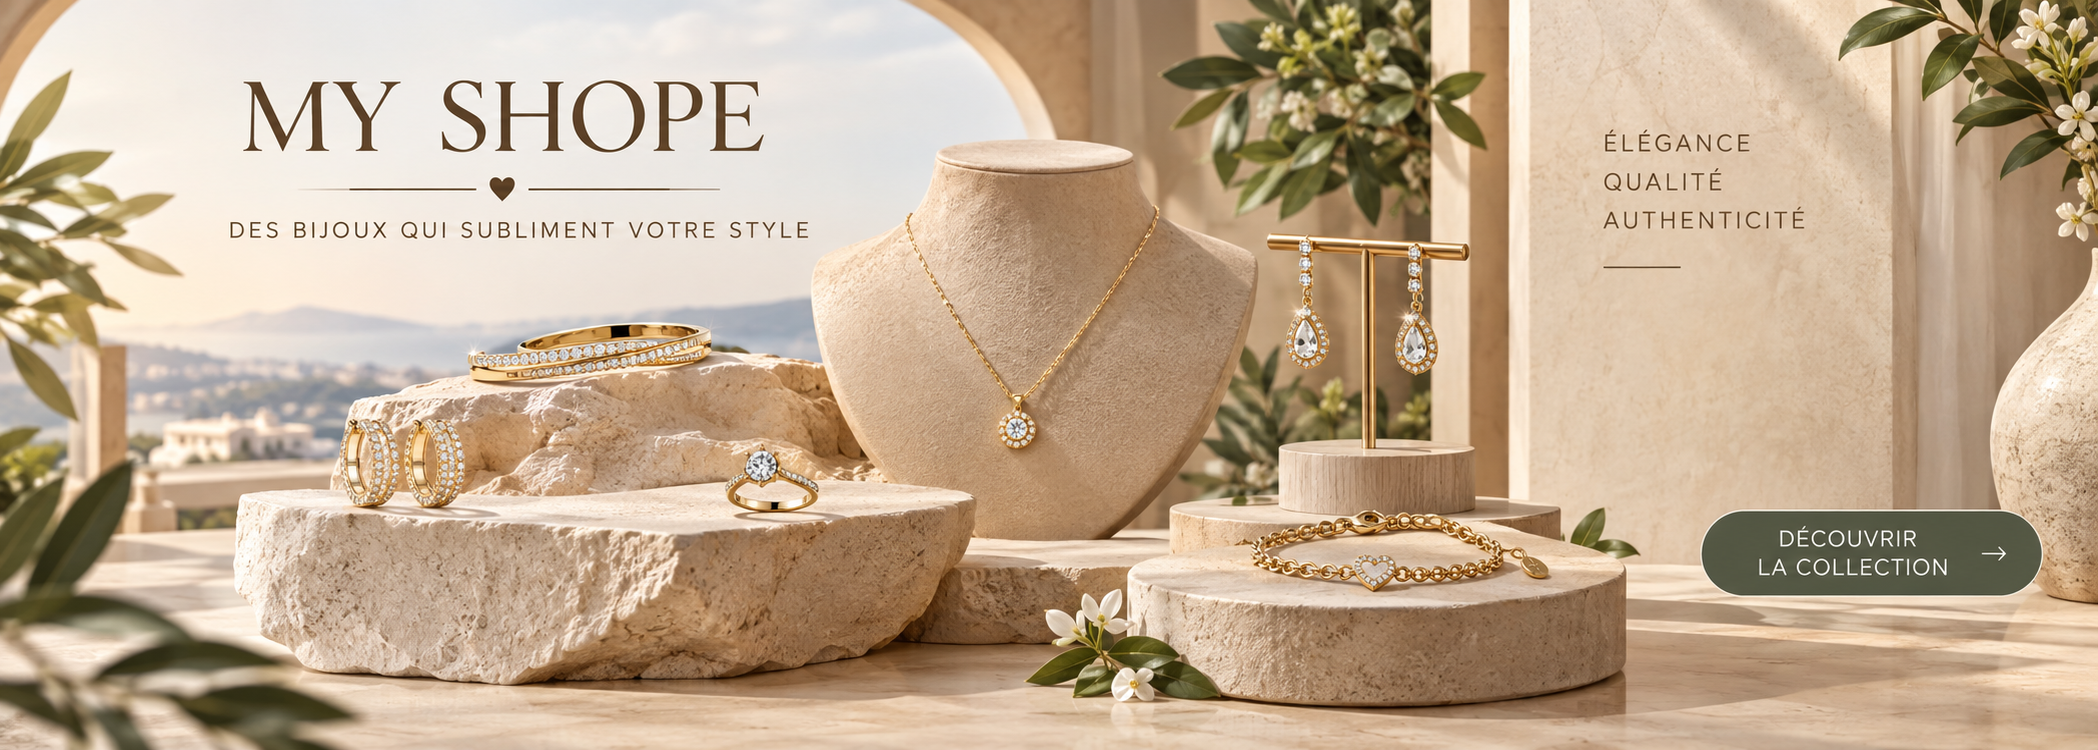
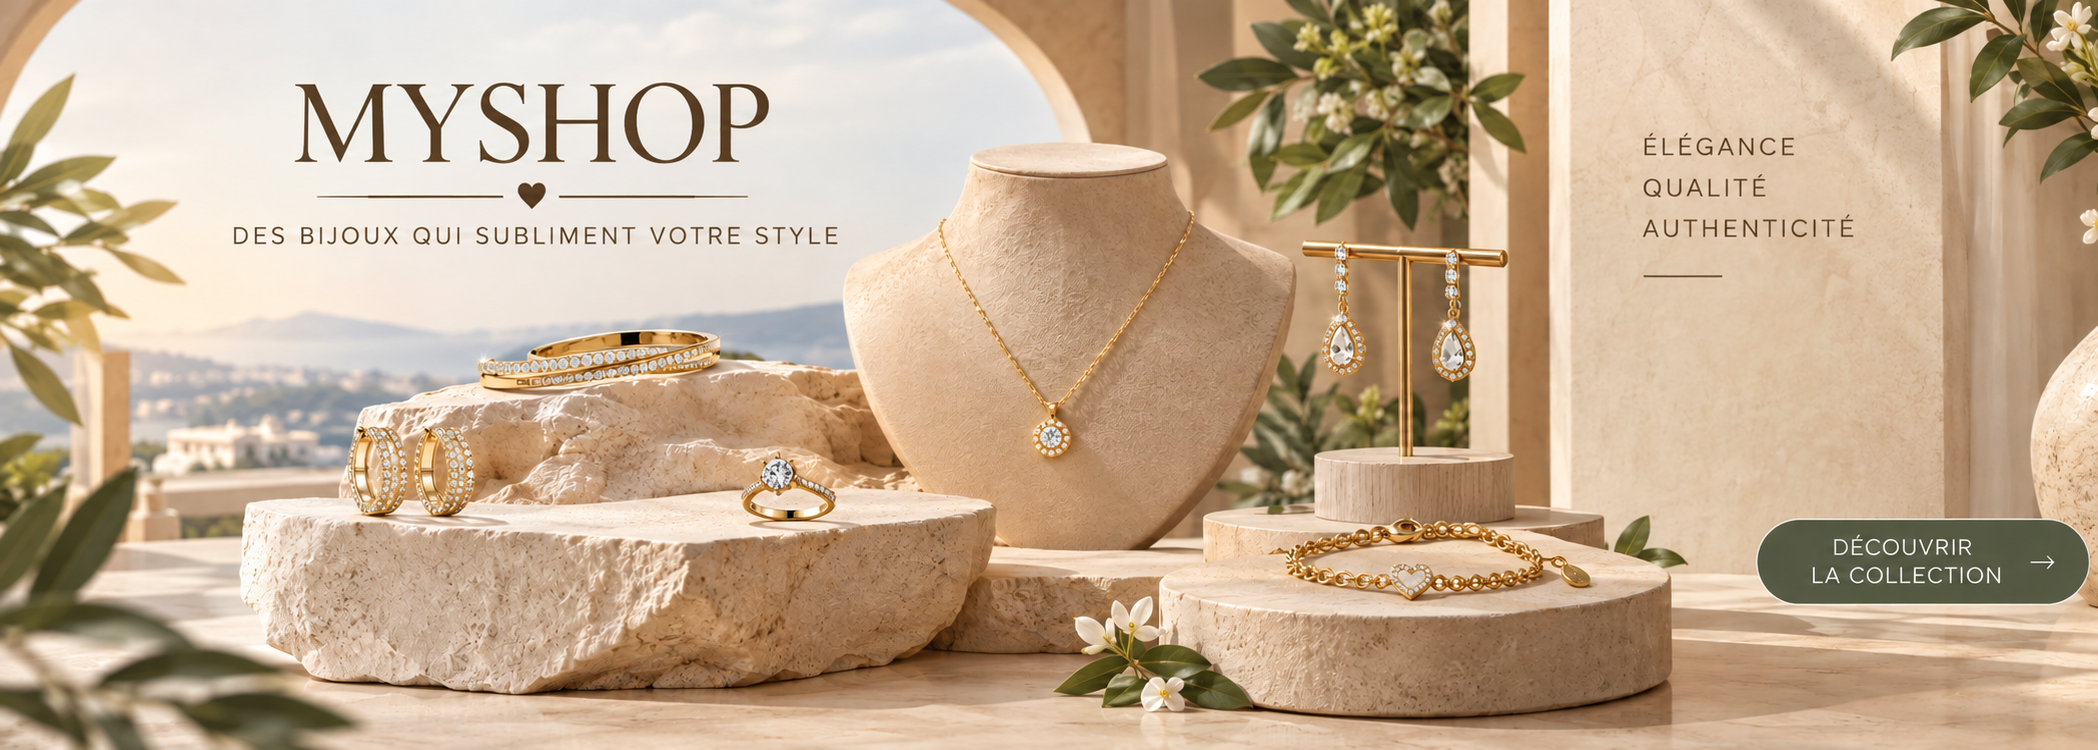
myshop

diff --git a/resources/views/welcomepage.blade.php b/resources/views/welcomepage.blade.php
@@ -14,21 +14,21 @@
                     <div class="carousel-inner rounded shadow">
                         <div class="carousel-item active">
                             <a href="{{ route('products.index') }}" class="d-block position-relative text-decoration-none">
-                                <img src="{{ asset('images/couv4.png') }}" class="d-block w-100" alt="My Shope - Des bijoux qui subliment votre style">
+                                <img src="{{ asset('images/couv4.png') }}" class="d-block w-100" alt="Myshop - Des bijoux qui subliment votre style">
                                 {{-- Zone cliquable sur le bouton DÉCOUVRIR incrusté en bas à droite --}}
                                 <span style="position:absolute; right:3%; bottom:6%; width:24%; height:14%; cursor:pointer;" aria-hidden="true"></span>
                             </a>
                         </div>
                         <div class="carousel-item">
                             <a href="{{ route('products.index') }}" class="d-block position-relative text-decoration-none">
-                                <img src="{{ asset('images/couv6.jpg') }}" class="d-block w-100" alt="My Shope - Elegance et raffinement">
+                                <img src="{{ asset('images/couv6.jpg') }}" class="d-block w-100" alt="Myshop - Elegance et raffinement">
                                 {{-- Zone cliquable sur le bouton DÉCOUVRIR incrusté --}}
                                 <span style="position:absolute; right:3%; bottom:6%; width:24%; height:14%; cursor:pointer;" aria-hidden="true"></span>
                             </a>
                         </div>
                         <div class="carousel-item">
                             <a href="{{ route('products.index') }}" class="d-block text-decoration-none">
-                                <img src="{{ asset('images/couv5.jpg') }}" class="d-block w-100" alt="Myshope - Collection exclusive">
+                                <img src="{{ asset('images/couv5.png') }}" class="d-block w-100" alt="Myshop - Collection exclusive">
                             </a>
                         </div>
                     </div>
@@ -49,11 +49,11 @@
     <section id="about-preview" class="py-5 bg-light">
         <div class="container px-4 px-lg-5 my-5">
             <div class="text-center">
-                <p class="text-uppercase text-muted mb-1" style="letter-spacing: 3px;">Myshope — Jewelry Shop</p>
+                <p class="text-uppercase text-muted mb-1" style="letter-spacing: 3px;">Myshop</p>
                 <h2 class="fw-bolder">Des bijoux qui racontent votre histoire</h2>
                 <p class="lead text-muted">Bagues torsadées, colliers dorés, éclat garanti.</p>
                 <p>
-                    Bienvenue chez <strong>Myshope</strong> : des bijoux délicats en plaqué or,
+                    Bienvenue chez <strong>Myshop</strong> : des bijoux délicats en plaqué or,
                     sertis de zircons, photographiés en fond blanc HD pour voir chaque détail.
                     Livraison rapide au Maroc, paiement à la livraison, échange sous 7 jours.
                 </p>

diff --git a/resources/views/layouts/app.blade.php b/resources/views/layouts/app.blade.php
@@ -6,7 +6,7 @@
     <meta name="viewport" content="width=device-width, initial-scale=1">
     <meta name="description" content="">
     <meta name="author" content="">
-    <title>Myshope</title>
+    <title>Myshop</title>
     <link rel="icon" type="image/x-icon" href="{{ asset('assets/favicon.ico') }}">
     <!-- Bootstrap CSS -->
     <link href="https://cdn.jsdelivr.net/npm/bootstrap@5.2.3/dist/css/bootstrap.min.css" rel="stylesheet">
@@ -20,7 +20,7 @@
  <!-- Navigation-->
 <nav class="navbar navbar-expand-lg navbar-light bg-light">
     <div class="container px-4 px-lg-5">
-        <a class="navbar-brand" href="{{ route('welcomepage') }}">Myshope</a>
+        <a class="navbar-brand" href="{{ route('welcomepage') }}">Myshop</a>
         <button class="navbar-toggler" type="button" data-bs-toggle="collapse" data-bs-target="#navbarSupportedContent" aria-controls="navbarSupportedContent" aria-expanded="false" aria-label="Toggle navigation"><span class="navbar-toggler-icon"></span></button>
         <div class="collapse navbar-collapse" id="navbarSupportedContent">
             <ul class="navbar-nav me-auto mb-2 mb-lg-0 ms-lg-4">
@@ -184,7 +184,7 @@
         <div class="container">
             <div class="row text-white-50 small">
                 <div class="col-md-4 mb-3">
-                    <h6 class="text-white">Myshope</h6>
+                    <h6 class="text-white">Myshop</h6>
                     <p class="mb-0">Bijoux délicats en plaqué or.<br>Livraison partout au Maroc.</p>
                 </div>
                 <div class="col-md-4 mb-3 text-center">
@@ -193,7 +193,7 @@
                     <a href="{{ route('checkout') }}" class="text-white text-decoration-none">Panier</a>
                 </div>
                 <div class="col-md-4 mb-3 text-md-end">
-                    <p class="m-0">Copyright &copy; Myshope 2024</p>
+                    <p class="m-0">Copyright &copy; Myshop 2024</p>
                 </div>
             </div>
         </div>

diff --git a/resources/views/about.blade.php b/resources/views/about.blade.php
@@ -3,19 +3,19 @@
 @section('content')
 <div class="container py-5">
     <div class="text-center mb-5">
-        <p class="text-uppercase text-muted mb-1" style="letter-spacing: 3px;">Myshope — Jewelry Shop</p>
+        <p class="text-uppercase text-muted mb-1" style="letter-spacing: 3px;">Myshop</p>
         <h1 class="fw-bolder">Notre Histoire</h1>
         <p class="lead text-muted">Des bijoux délicats pour sublimer votre quotidien.</p>
     </div>
 
     <div class="row align-items-center g-5">
         <div class="col-md-6">
-            <img src="{{ asset('images/couv3.jpg') }}" class="img-fluid rounded shadow" alt="Myshope bijoux">
+            <img src="{{ asset('images/couv5.png') }}" class="img-fluid rounded shadow" alt="Myshop bijoux">
         </div>
         <div class="col-md-6">
             <h3 class="fw-bold mb-3">L'éclat, sans compromis</h3>
             <p>
-                Bienvenue chez <strong>Myshope</strong>, votre destination bijoux au Maroc.
+                Bienvenue chez <strong>Myshop</strong>, votre destination bijoux au Maroc.
                 Nous sélectionnons des pièces intemporelles : bagues torsadées en plaqué or,
                 colliers chaînes dorées, bracelets et boucles — sertis de zircons éclatants.
             </p>

diff --git a/resources/views/auth/login.blade.php b/resources/views/auth/login.blade.php
@@ -135,7 +135,7 @@
         <div class="fadeIn first">
             <div class="icon-header">
                 <img src="{{ asset('images/869636.png') }}" id="icon" alt="User Icon" />
-                <h3>Welcome to Myshope</h3>
+                <h3>Welcome to Myshop</h3>
             </div>
         </div>
 
